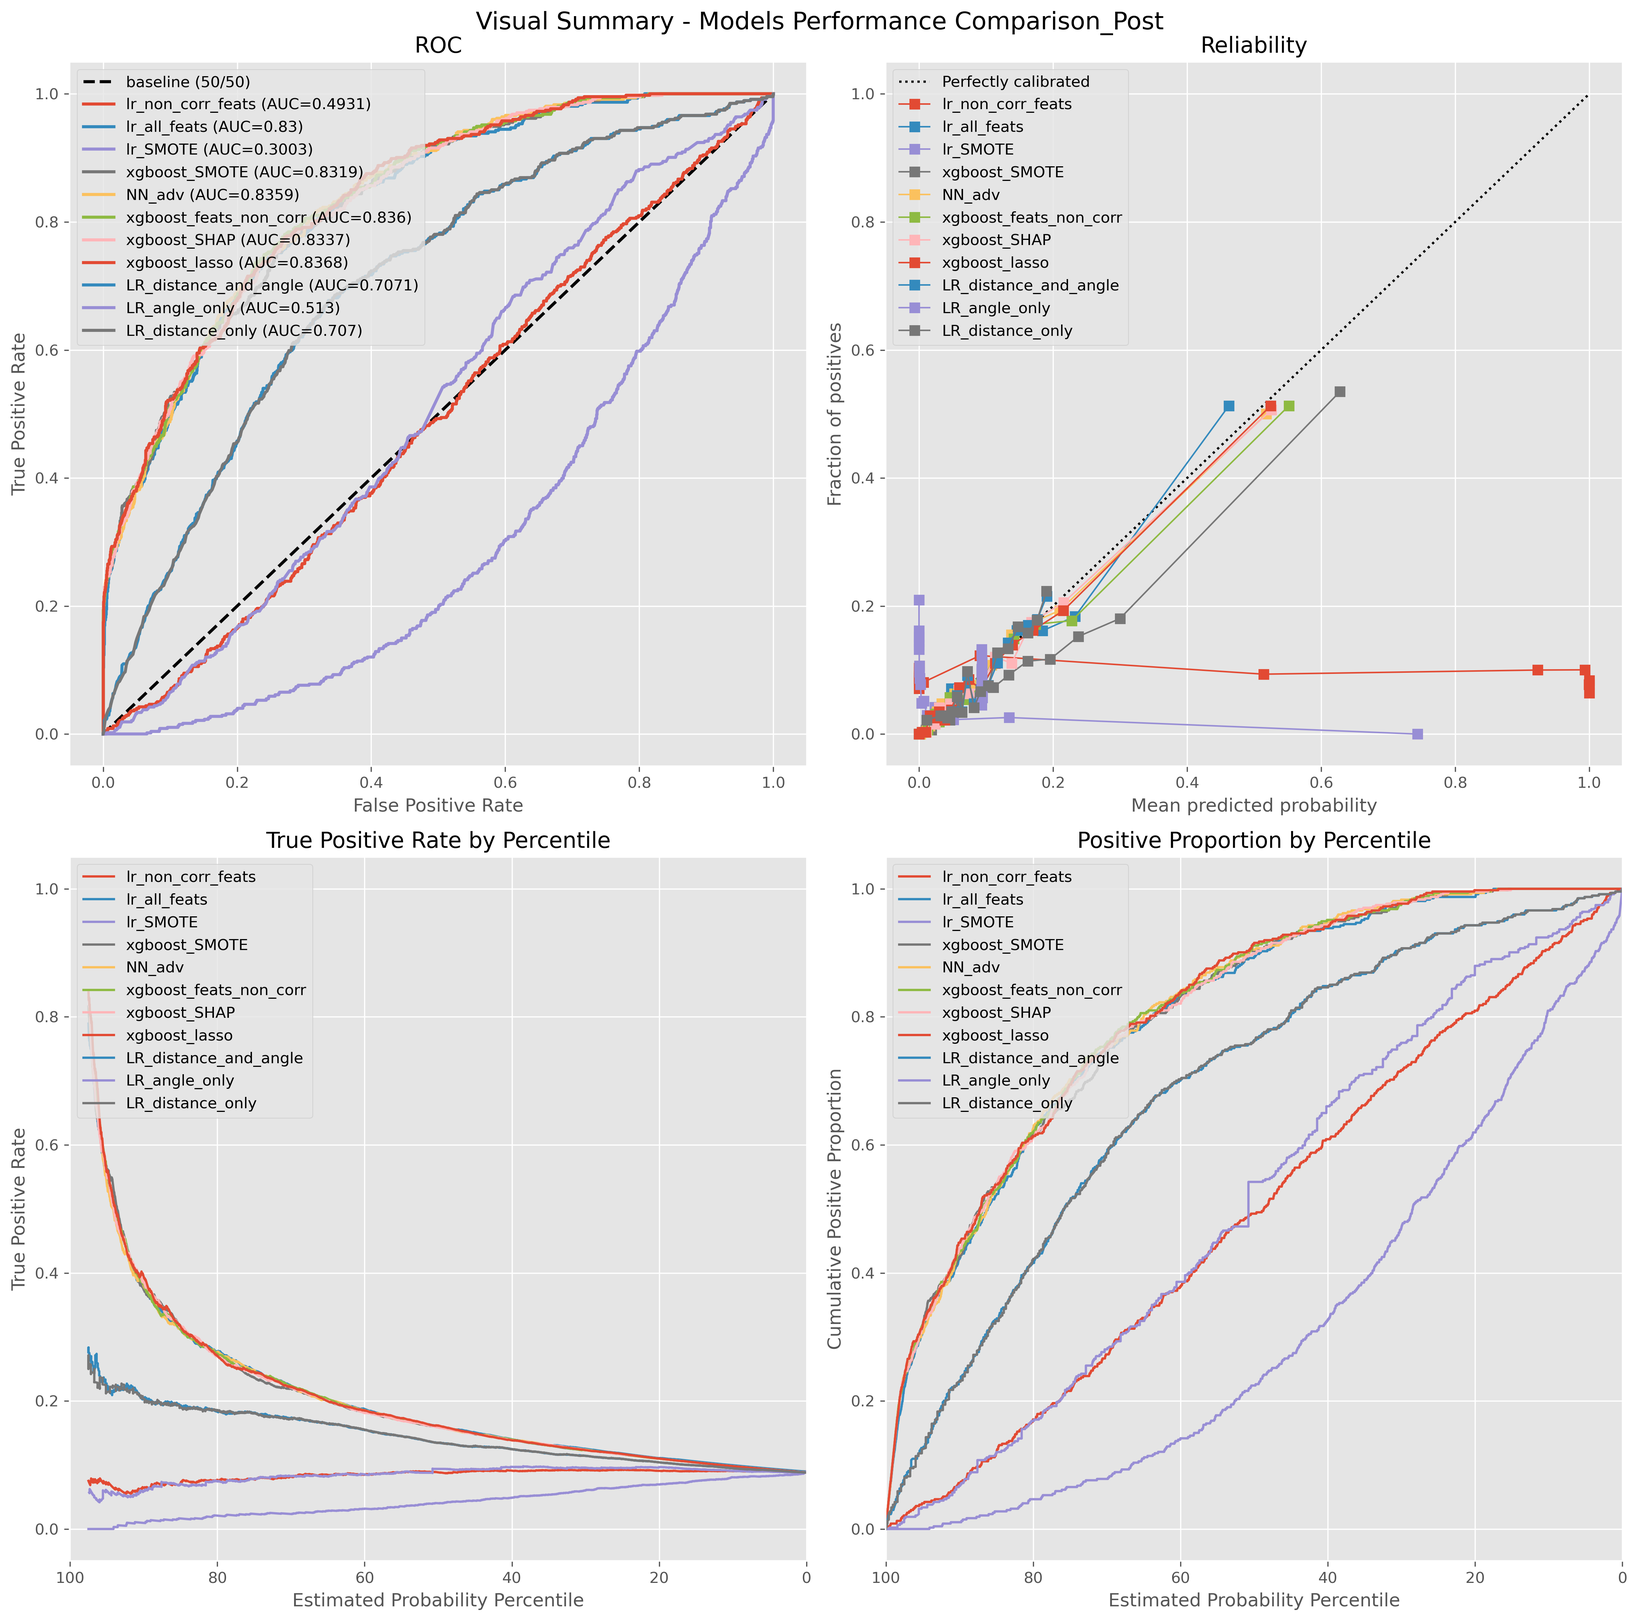
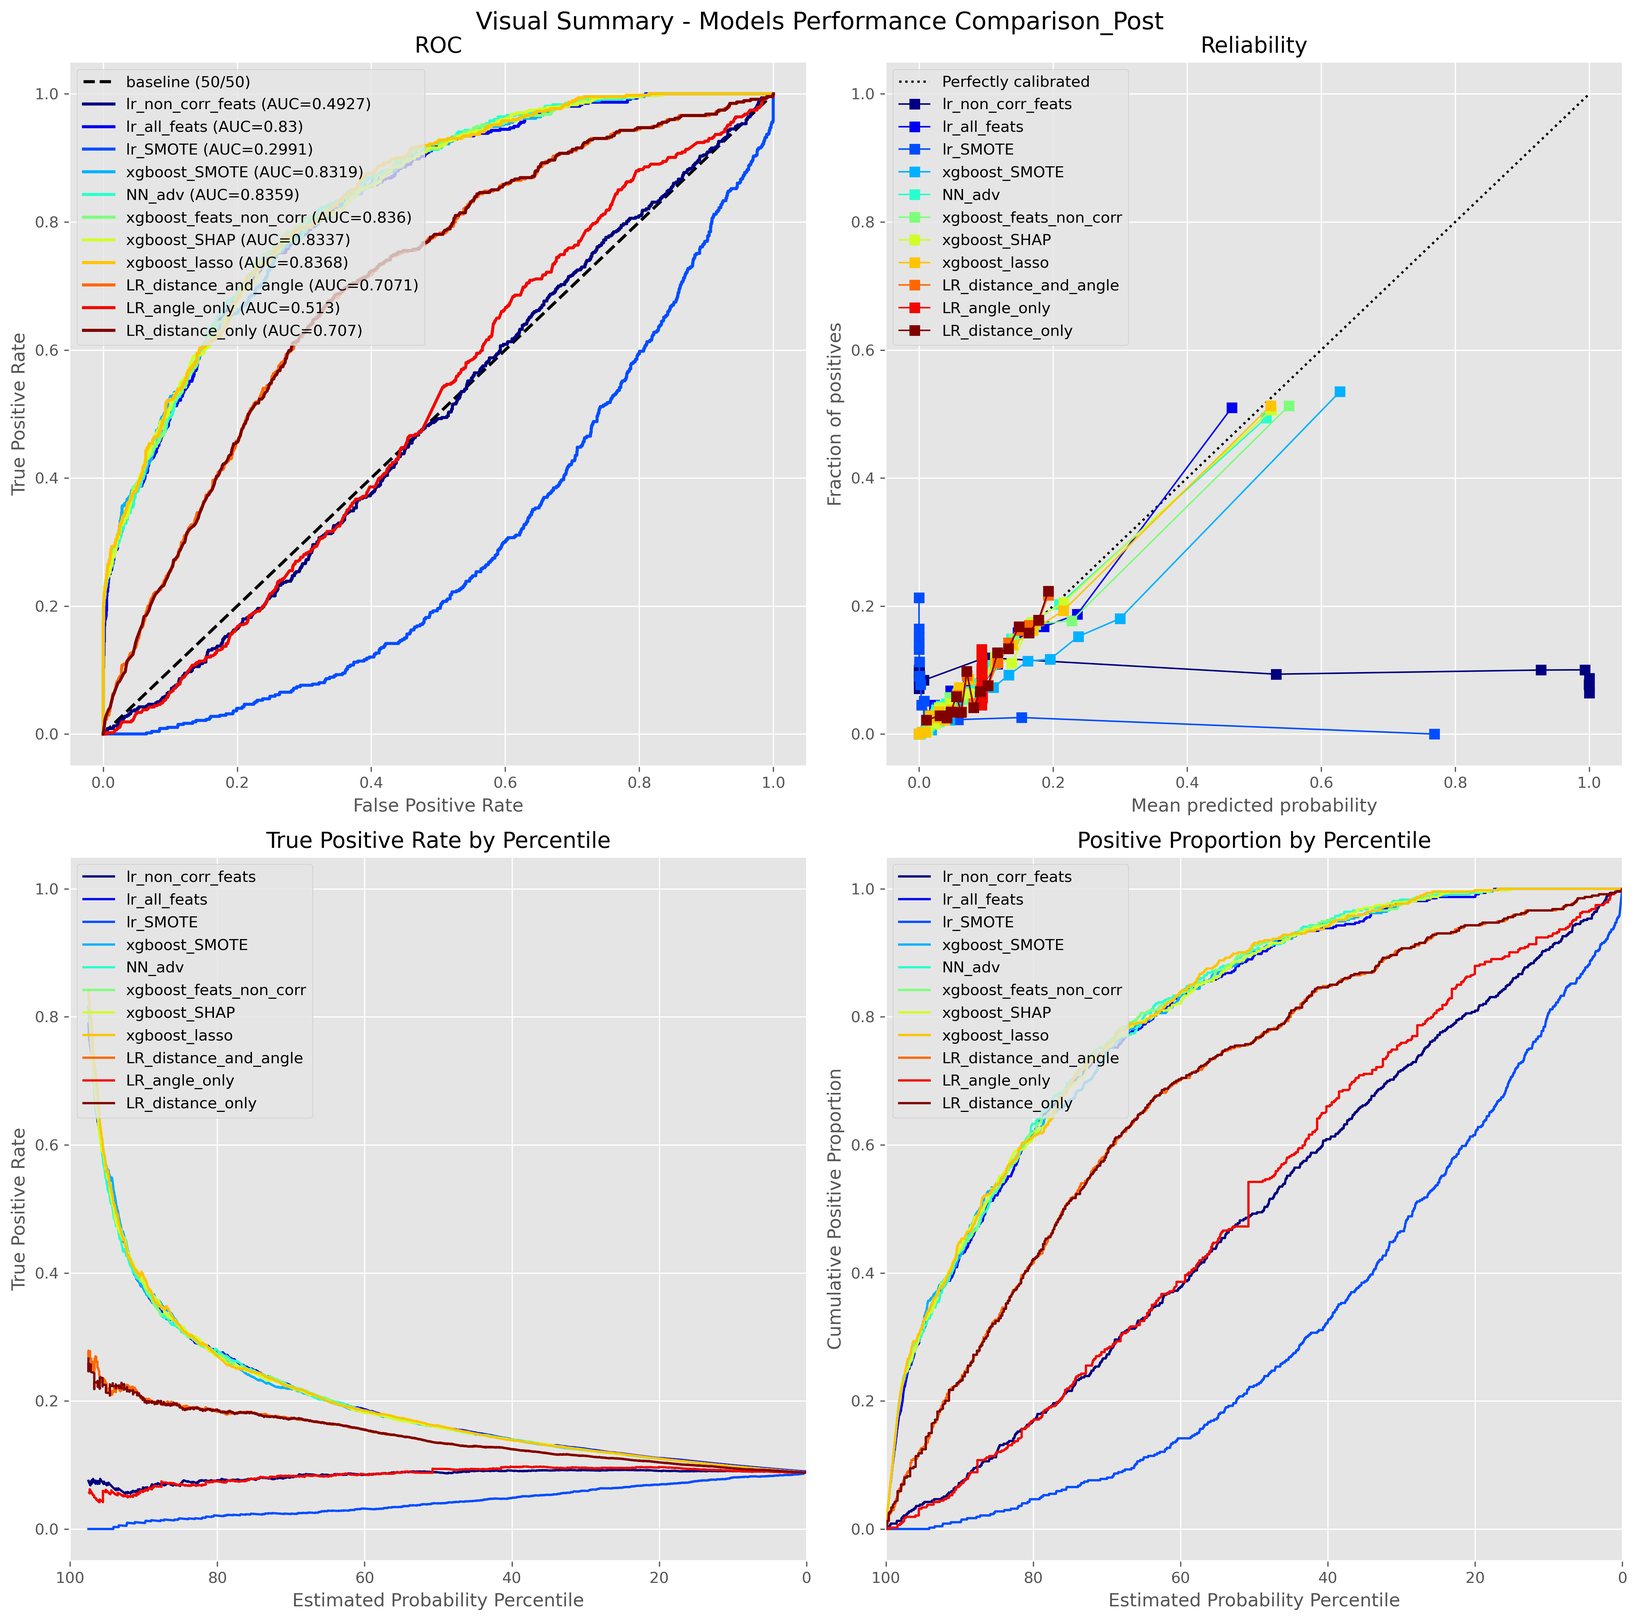
Updated images and write-up for the test evaluation section.

diff --git a/_posts/2021-11-27-milestone-2.md b/_posts/2021-11-27-milestone-2.md
@@ -331,7 +331,9 @@ The following figure shows the correlation between all input features.
 
 As shown in the figure, a high correlation can be observed between the `is_rebound` feature and two other features: (`rebound_angle` and `prev_event_SHOT`). The figure also shows that the `period` feature was highly correlated with `game_sec`. And both `coordinate_x` and `coordinate_y` features are correlated with `distance_from_net` and `angle` features respectively. 
 
-After removing the following features (`is_rebound`, `coordinate_x`, `coordinate_y`, `period`), an XGBoost model was trained using the remaining features. This model was named `xgboost_feats_non_corr`. The hyperparameter for the tuned model (using the same optimization process used in previous sections) were:
+After removing the following features (`is_rebound`, `coordinate_x`, `coordinate_y`, `period`), an XGBoost model was trained using the remaining features. This model was named `xgboost_feats_non_corr`, a logistic regression model, named `lr_non_corr_feats`, was also trained using the same features for comparison. The performance of these models are shown and discussed in the model comparison and selection section. 
+
+The hyperparameter for the tuned XGBoost model (using the same optimization process used in previous sections) were:
 
 |     <u>Hyperparameter</u>        | <u>Value</u> | 
 |:-------------------|:------------------:|
@@ -356,12 +358,16 @@ The prediction results on the validation set made by the two models were plotted
 
 
 ## Model Comparison and Selection
-Three models discussed above were compared using the classifier quality charts. These three models are:
-- `NN_adv`: The neural network model trained on the advance feature set
-- `xgboost_feats_non_corr`: The XGBoost model that was trained on all the non-highly-correlated features
-- `xgboost_SMOTE`: The XGBoost model that was trained on all the non-highly-correlated features over sampled using the SMOTE method
+Seven models discussed above were compared using the classifier quality charts. These models are:
+- `xgboost_lasso`: XGBoost model trained on selected features by Lasso method
+- `NN_adv`: Neural network model trained on the advance feature set
+- `xgboost_feats_non_corr`: XGBoost model trained on all the non-highly-correlated features
+- `xgboost_SMOTE`: XGBoost model trained on all the non-highly-correlated features over sampled using the SMOTE method
+- `lr_all_feats`: Logistic regression model trained on all the generated features from Feature Engineering 2 part
+- `lr_non_corr_feats`: Logistic regression model trained on the non-highly correlated features
+- `lr_SMOTE`: Logistic regression model trained on the non-highly correlated features oversampled using the SMOTE method
 
-As shown in the following figures, all three models achieved very similar performance when evaluated using the positive rate by percentile chart and the positive proportion by percentile chart. The ROC chart shows that the `xgboost_SMOTE` model had a slightly lower AUC score compared to the other two models. The reliability chart offers a clearer distinction that the `xgboost_SMOTE` model did not perform as well as the other two, its curve had a larger deviation from the perfectly calibrated line. Oversampling did not lead to better performance and may have overfitted the model. The `xgboost_feats_non_corr` was selected to be the best performing model due to its AUC score surpassing the `NN_adv` model's score by a small margin and that the curve it produced appears to be closer to the perfectly calibrated line in the reliability chart.
+As shown in the following figures, all models achieved very similar performance when evaluated using the positive rate by percentile chart and the positive proportion by percentile chart. The ROC chart shows that the `xgboost_feats_non_corr` model had the highest AUC score (0.83) and the `lr_non_corr_feats` had the lowest (0.81). The variation between AUC scores were too low to be conclusive. The reliability chart offers a clearer distinction and shows that the top performing models are `NN_adv`,`xgboost_feats_non_corr`, and `xgboost_lasso`. The performance curve produced by these models are closest to the perfectly calibrated line. The graph also shows that `lr_all_feats` and `lr_non_corr_feats` achieved a similar performance. Bith `xgboost_SMOTE` and `lr_SMOTE` did not perform as well as the other models, their performance curves had the largest deviation from the perfectly calibrated line. Oversampling did not lead to better performance and may have overfitted the models. In conclusion, the charts suggest that the `xgboost_feats_non_corr` to be the best performing model. 
 
 ![Best Performers](/Images/m2_q6_best_performers.png)
 
@@ -375,24 +381,26 @@ Q7 Evaluate on Test set
 
 ## Model Evaluation For the 2019/20 Regular Season Games
 
-The three logistic regression models, the best XGBoost model, and the best overall model were retrieved from comet.ml and used to predict the test set's probability of goals. The test set was divided and grouped by regular season games and postseason games. Two separate classifier quality charts were generated as a result.
+All models were retrieved from comet.ml and used to predict the test set's probability of goals. The test set was divided and grouped by regular season games and postseason games. Two separate classifier quality charts were generated as a result.
 
-The test set prediction accuracy and AUC value for the regular season games matched results obtained from the validation set for all five models. As shown below, the classifier quality charts confirm that there was no significant variation in model performance. Both the XGBoost models had comparable performance and both outperformed the remaining models. As seen previosuly, the logistic regression model trained on distance and angle achieved the same performance as the logistic regression model trained on distance only. The logistic regression model trained on angle only remained to be the worst performing model. As a result, it can be concluded that the validation set is a good representation of the general data.
+The prediction accuracy for `lr_SMOTE` and `lr_non_corr_feats` both decreased significantly when tested on the test set, this indicates that both `lr_SMOTE` and `lr_non_corr_feats` are overfitted.
+
+The test set prediction accuracy and AUC value for the regular season games matched results obtained from the validation set for the remaining models. As shown below, the classifier quality charts confirm that there was no significant variation in model performance. Information from the ROC curve and the reliability curve suggest that the top three performing models are `NN_adv`, `xgboost_SHAP`, and `xgboost_feats_non_corr`. The worst performing models are `lr_SMOTE` and `lr_non_corr_feats`, the two overfitted models. Based on the results observed using the test set, it can be concluded that the validation set is a good representation of the general data.
 
 
 |   <u>Model Name</u>          | <u>Accuracy</u> | <u>AUC</u> |
 |:-------------------|:------------------:|:---------------:|
-| **LR_angle_only**             |       ??.?     |      ??     |
-| **LR_distance_only**          |       ??.?     |      ??     |
-| **LR_distance_and_angle**     |       ??.?     |      ??     |
-| **xgboost_lasso**             |       ??.?     |      ??     |
-| **xgboost_SHAP**              |       ??.?     |      ??     |
-| **xgboost_feats_non_corr**    |       ??.?     |      ??     |
-| **NN_adv**                    |       ??.?     |      ??     |
-| **xgboost_SMOTE**             |       ??.?     |      ??     |
-| **lr_SMOTE**                  |       ??.?     |      ??     |
-| **lr_all_feats**              |       ??.?     |      ??     |
-| **lr_non_corr_feats**         |       ??.?     |      ??     |
+| **LR_angle_only**             |       90.3     |      0.51     |
+| **LR_distance_only**          |       90.3     |      0.70     |
+| **LR_distance_and_angle**     |       90.3     |      0.70     |
+| **xgboost_lasso**             |       91.9     |      0.84     |
+| **xgboost_SHAP**              |       92.0     |      0.83     |
+| **xgboost_feats_non_corr**    |       92.0     |      0.84     |
+| **NN_adv**                    |       92.0     |      0.84     |
+| **xgboost_SMOTE**             |       91.5     |      0.83     |
+| **lr_SMOTE**                  |       86.0     |      0.29     |
+| **lr_all_feats**              |       91.5     |      0.83     |
+| **lr_non_corr_feats**         |       56.9     |      0.50     |
 
 
 <!-- |                                        | <u>Accuracy</u> | <u>AUC</u> |
@@ -408,22 +416,22 @@ The test set prediction accuracy and AUC value for the regular season games matc
 
 ## Model Evaluation For the 2019/20 Post Season Games 
 
-The model performance results evaluated using the postseason games were similar to the results obtained through the regular season games. The table below shows that there was only a minor increase in prediction accuracy and the AUC values remained the same. The curves in the classifier quality charts generated using the postseason game predictions appear to be noisier than the curves in the previous charts. This observed granularity is attributed to the lower number of games in the dataset. One noticeable difference can be observed between the two reliability charts. While the general shape of the curves remained similar, both XGBoost models were unable to produce any probabilities above 0.6. This is also attributed to the lower number of samples available since the reliability chart bins the probabilities to produce a more meaningful representation. The test set suggests that all five models were not overfitted and are generalized predictors of the dataset.
+The model performance results evaluated using the postseason games were similar to the results obtained through the regular season games. The table below shows that there was only a minor increase in prediction accuracy and the AUC values remained the same. The curves in the classifier quality charts generated using the postseason game predictions appear to be noisier than the curves in the previous charts. This observed granularity is attributed to the lower number of games in the dataset. One noticeable difference can be observed between the regular season and postseason reliability charts. While the general shape of the curves remained similar, most of the models were unable to produce probabilities above 0.6. Only `xgboost_SMOTE`, `lr_SMOTE`, and `lr_non_corr_feats` produced probability predictions above 0.6. While the difference observed here can be attributed to the lower number of samples available, it also shows that the postseason games dataset has different traits compare to the regular season games dataset. `xgboost_lasso`, `NN_adv`, `xgboost_SHAP` and `xgboost_feats_non_corr` remined as the top three performing models when evaluated using the postseason dataset.
 
 
 |   <u>Model Name</u>          | <u>Accuracy</u> | <u>AUC</u> |
 |:-------------------|:------------------:|:---------------:|
-| **LR_angle_only**             |       ??.?     |      ??     |
-| **LR_distance_only**          |       ??.?     |      ??     |
-| **LR_distance_and_angle**     |       ??.?     |      ??     |
-| **xgboost_lasso**             |       ??.?     |      ??     |
-| **xgboost_SHAP**              |       ??.?     |      ??     |
-| **xgboost_feats_non_corr**    |       ??.?     |      ??     |
-| **NN_adv**                    |       ??.?     |      ??     |
-| **xgboost_SMOTE**             |       ??.?     |      ??     |
-| **lr_SMOTE**                  |       ??.?     |      ??     |
-| **lr_all_feats**              |       ??.?     |      ??     |
-| **lr_non_corr_feats**         |       ??.?     |      ??     |
+| **LR_angle_only**             |       91.2     |      0.51     |
+| **LR_distance_only**          |       91.2     |      0.71     |
+| **LR_distance_and_angle**     |       91.2     |      0.71     |
+| **xgboost_lasso**             |       92.9     |      0.84     |
+| **xgboost_SHAP**              |       93.0     |      0.83     |
+| **xgboost_feats_non_corr**    |       92.8     |      0.84     |
+| **NN_adv**                    |       92.9     |      0.84     |
+| **xgboost_SMOTE**             |       92.6     |      0.83     |
+| **lr_SMOTE**                  |       86.4     |      0.30     |
+| **lr_all_feats**              |       92.3     |      0.83     |
+| **lr_non_corr_feats**         |       59.1     |      0.49     |
 
 
 <!-- |                                        | <u>Accuracy</u> | <u>AUC</u> |
@@ -440,25 +448,25 @@ The model performance results evaluated using the postseason games were similar 
 # Appendix - Comet.ml Links
 
 ## Baseline Experiments
-- **[`LR_distance_only`](https://www.comet.ml/tim-k-lee/ift6758-hockey/f3c8d785b3ca4ac480b877d4c4199c3c)**: the logistic regression model trained on the `distance_from_net` feature only
-- **[`LR_angle_only`](https://www.comet.ml/tim-k-lee/ift6758-hockey/370c0e0b473b44babbc162ccd1d5aa16)**: the logistic regression model trained on the `angle` feature only
-- **[`LR_distance_and_angle`](https://www.comet.ml/tim-k-lee/ift6758-hockey/dcea9b13ba6642f090d65b684b7e9d14)**: the logistic regression model trained on both the `distance_from_net` and `angle` features
+- **[`LR_distance_only`](https://www.comet.ml/tim-k-lee/ift6758-hockey/f3c8d785b3ca4ac480b877d4c4199c3c)**: Logistic regression model trained on the `distance_from_net` feature only
+- **[`LR_angle_only`](https://www.comet.ml/tim-k-lee/ift6758-hockey/370c0e0b473b44babbc162ccd1d5aa16)**: Logistic regression model trained on the `angle` feature only
+- **[`LR_distance_and_angle`](https://www.comet.ml/tim-k-lee/ift6758-hockey/dcea9b13ba6642f090d65b684b7e9d14)**: Logistic regression model trained on both the `distance_from_net` and `angle` features
 
 ## Advanced Experiments
-- **[`xgboost_baseline`](https://www.comet.ml/tim-k-lee/ift6758-hockey/6674103c7b7a4a38bcce89ca60d69cd6)**: the XGBoost model trained on the `angle` and `distance_from_net` features only
-- **[`xgboost_optimal`](https://www.comet.ml/tim-k-lee/ift6758-hockey/0bf852d52c004156abf54cc2ef5e297d)**: the XGBoost model that was tuned and optimal hyperparameters were chosen
-- **[`xgboost_lasso`](https://www.comet.ml/tim-k-lee/ift6758-hockey/98ccf2eda8944da6b94e8eac3fb56769)**: the XGBoost model trained on selected features by Lasso method
-- **[`xgboost_SHAP`](https://www.comet.ml/tim-k-lee/ift6758-hockey/360783a9e6294503a9290b1b36e263b0)**: the XGBoost model trained on selected features by SHAP method
+- **[`xgboost_baseline`](https://www.comet.ml/tim-k-lee/ift6758-hockey/6674103c7b7a4a38bcce89ca60d69cd6)**: XGBoost model trained on the `angle` and `distance_from_net` features only
+- **[`xgboost_optimal`](https://www.comet.ml/tim-k-lee/ift6758-hockey/0bf852d52c004156abf54cc2ef5e297d)**: XGBoost model that was tuned and optimal hyperparameters were chosen
+- **[`xgboost_lasso`](https://www.comet.ml/tim-k-lee/ift6758-hockey/98ccf2eda8944da6b94e8eac3fb56769)**: XGBoost model trained on selected features by Lasso method
+- **[`xgboost_SHAP`](https://www.comet.ml/tim-k-lee/ift6758-hockey/360783a9e6294503a9290b1b36e263b0)**: XGBoost model trained on selected features by SHAP method
 
 
 ## Our Best Shot Experiments!
-- **[`lr_all_feats`](https://www.comet.ml/tim-k-lee/ift6758-hockey/4f67f15d5fec4b39b1efae8e31e24c72)**: the logistic regression model trained on all the generated features from Feature Engineering 2 part
-- **[`lr_non_corr_feats`](https://www.comet.ml/tim-k-lee/ift6758-hockey/c0f87c0971fd4cc39431b5e5d53347c9)**: the logistic regression model trained on the non-highly correlated features
-- **[`lr_SMOTE`](https://www.comet.ml/tim-k-lee/ift6758-hockey/7aaa91b314c945fdb12b3103baaf81ac)**: the logistic regression model trained on the non-highly correlated features oversampled using the SMOTE method
-- **[`xgboost_SMOTE`](https://www.comet.ml/tim-k-lee/ift6758-hockey/04b819114d484137a202b13cba10ce45)**: the XGBoost model trained on the non-highly correlated features oversampled using the SMOTE method
-- **[`xgboost_lasso`](https://www.comet.ml/tim-k-lee/ift6758-hockey/98ccf2eda8944da6b94e8eac3fb56769)**: the XGBoost model that was trained on selected features by Lasso method
-- **[`NN_adv`](https://www.comet.ml/tim-k-lee/ift6758-hockey/28f4a2c65ff8481f8bad834927a7513a)**: the neural network model trained on the advance feature set
-- **[`xgboost_feats_non_corr`](https://www.comet.ml/tim-k-lee/ift6758-hockey/45fcfdff52d842e097135197995e985a)** the XGBoost model that was trained on all the non-highly-correlated features
+- **[`lr_all_feats`](https://www.comet.ml/tim-k-lee/ift6758-hockey/4f67f15d5fec4b39b1efae8e31e24c72)**: Logistic regression model trained on all the generated features from Feature Engineering 2 part
+- **[`lr_non_corr_feats`](https://www.comet.ml/tim-k-lee/ift6758-hockey/c0f87c0971fd4cc39431b5e5d53347c9)**: Logistic regression model trained on the non-highly correlated features
+- **[`lr_SMOTE`](https://www.comet.ml/tim-k-lee/ift6758-hockey/7aaa91b314c945fdb12b3103baaf81ac)**: Logistic regression model trained on the non-highly correlated features oversampled using the SMOTE method
+- **[`xgboost_SMOTE`](https://www.comet.ml/tim-k-lee/ift6758-hockey/04b819114d484137a202b13cba10ce45)**: XGBoost model trained on the non-highly correlated features oversampled using the SMOTE method
+- **[`xgboost_lasso`](https://www.comet.ml/tim-k-lee/ift6758-hockey/98ccf2eda8944da6b94e8eac3fb56769)**: XGBoost model that was trained on selected features by Lasso method
+- **[`NN_adv`](https://www.comet.ml/tim-k-lee/ift6758-hockey/28f4a2c65ff8481f8bad834927a7513a)**: Neural network model trained on the advance feature set
+- **[`xgboost_feats_non_corr`](https://www.comet.ml/tim-k-lee/ift6758-hockey/45fcfdff52d842e097135197995e985a)** XGBoost model that was trained on all the non-highly-correlated features
 
 
 
